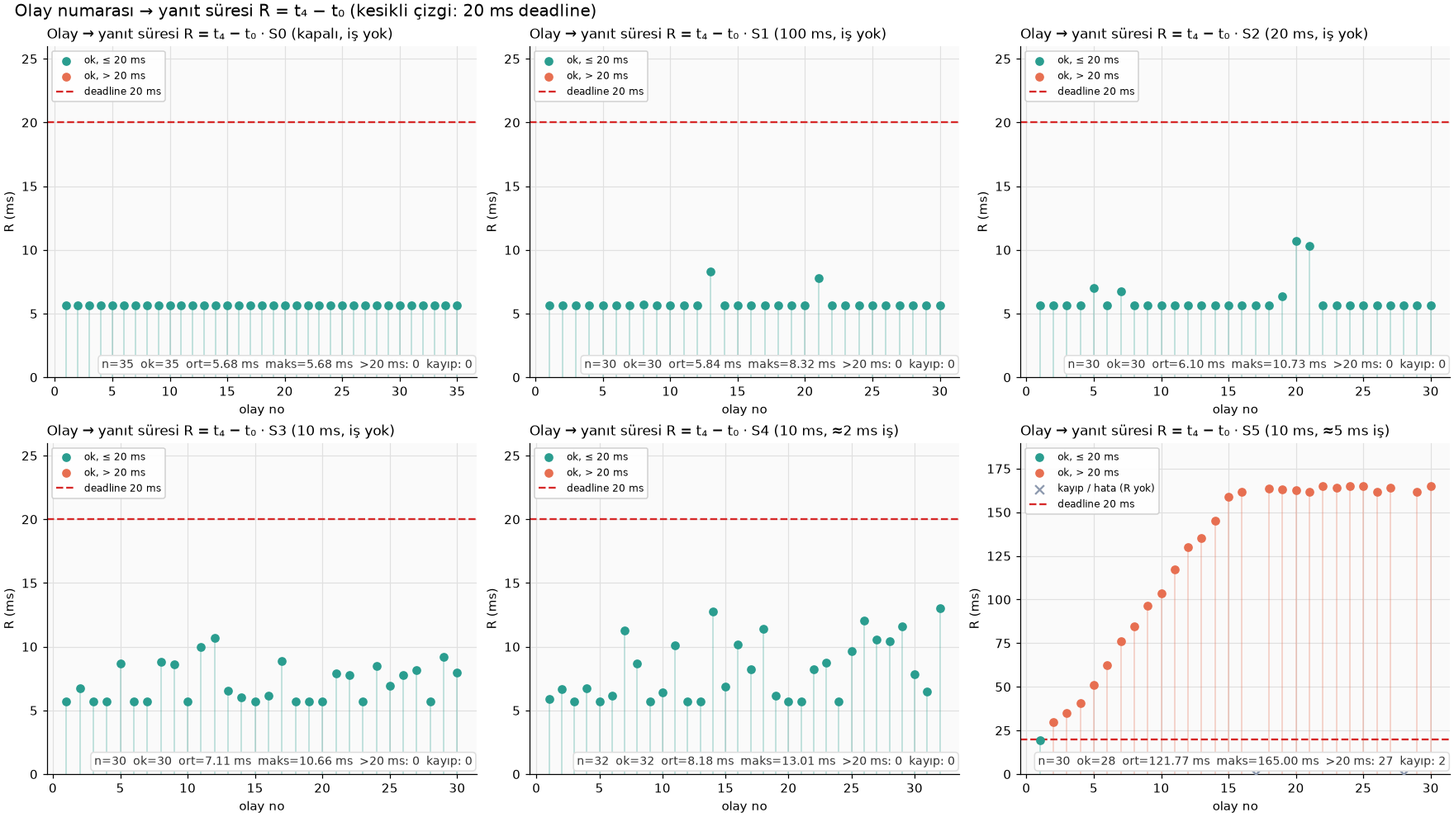
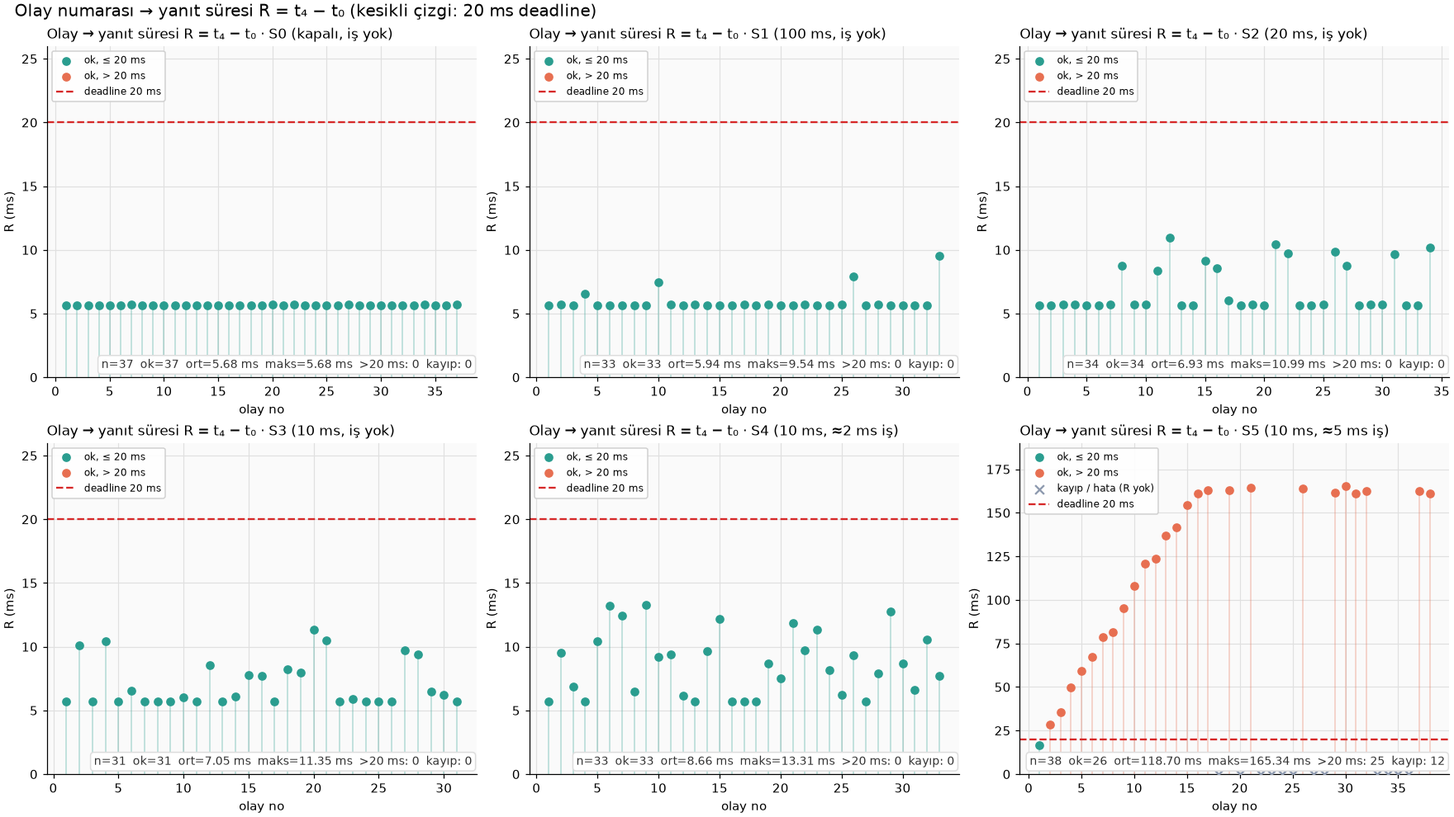
Adım 8 (v2): analiz ve rapor olcum-v2 verisiyle güncellendi
Kuyruk HWM ve gerçek telemetri hızı tablosu, basış aralığı kontrolü,
duvar saati / CPU süresi ayrımı, t3-t2'nin kapsamı, ek CPU talebi hesabı
ve DMA önerisinin düzeltilmesi eklendi. Bütün sayılar betik çıktısından.

diff --git a/hafta-01/analysis/analyze.py b/hafta-01/analysis/analyze.py
@@ -37,6 +37,7 @@ SCN_DESC = {
     "S5": "10 ms, ≈5 ms iş",
 }
 DEADLINE_US = 20_000
+MIN_PRESS_GAP_S = 0.5
 
 
 def p95(values: list) -> float:
@@ -86,6 +87,9 @@ def analyse() -> tuple:
 
         R = [r.r_us for r in good]
         stages = [[r.stage_us(i) for r in good] for i in range(4)]
+        # Press spacing from the board's own t0 stamps (procedure: >= 0.5 s)
+        t0s = [r.t[0] for r in rows if r.t[0] is not None]
+        gaps = [((b - a) & 0xFFFFFFFF) / 1e6 for a, b in zip(t0s, t0s[1:])]
         status = {s: sum(r.status == s for r in rows)
                   for s in ("btn_drop", "tx_drop", "tx_error", "timeout")}
         summary.append({
@@ -116,6 +120,9 @@ def analyse() -> tuple:
             "tel_period_max_us": cnt.get("tel_period_max_us", ""),
             "work_min_us": cnt.get("work_min_us", ""),
             "work_max_us": cnt.get("work_max_us", ""),
+            "press_gap_min_s": round(min(gaps), 3) if gaps else "",
+            "press_gap_median_s": round(median(gaps), 3) if gaps else "",
+            "press_gap_under_0_5s": sum(g < MIN_PRESS_GAP_S for g in gaps),
             "tel_rate_hz": tel_rate(cnt),
             "txq_hwm": cnt.get("txq_hwm", ""),
             "txq_hwm_tel": cnt.get("txq_hwm_tel", ""),
@@ -226,6 +233,12 @@ def write_tables(summary: list, excluded: list) -> None:
         btq = s["btnq_hwm"] or "ölçülmedi"
         lines.append(f"| {s['scenario']} | {rate} | {per} | {work} | {txq} | {btq} | "
                      f"{s['tx_drop_tel']} | {s['bounce_rejected']} |")
+    lines += ["", "## Prosedür kontrolü (basış aralıkları, kartın t₀ damgalarından)", "",
+              "| Senaryo | Kabul edilen olay | Basış aralığı min (s) | medyan (s) | 0,5 s'den kısa |",
+              "|---|---|---|---|---|"]
+    for s in summary:
+        lines.append(f"| {s['scenario']} | {s['accepted']} | {str(s['press_gap_min_s']).replace('.', ',')} | "
+                     f"{str(s['press_gap_median_s']).replace('.', ',')} | {s['press_gap_under_0_5s']} |")
     lines += ["", "## Ek gözlemler", ""] + extra_observations() + ["", "## Dışlanan kayıtlar", ""]
     if excluded:
         lines += ["Zaman istatistiklerinden dışlandı; özet tablodaki olay sayılarında ve kayıp sütunlarında yer alır.", "",

diff --git a/hafta-01/analysis/report.md b/hafta-01/analysis/report.md
@@ -5,10 +5,12 @@
 ## 1. Deney Koşulları
 
 - Kart, MCU saati, tick hızı, timer ve derleme ayarları: bkz. [README](../README.md#1-donanım-bağlantılar-ve-araç-sürümleri)
-- Ölçülen firmware: `olcum-v1` tag'i (`9124f34`). NUCLEO-L476RG, 80 MHz, FreeRTOS 10.3.1, Debug `-O0`
+- Ölçülen firmware: `olcum-v2` tag'i (`5baf768`). NUCLEO-L476RG, 80 MHz, FreeRTOS 10.3.1, Debug `-O0`. v2, v1'e TX ve buton kuyruklarının high-water mark sayaçlarını ekler. v1 ölçümleri [measurements/olcum-v1/](../measurements/olcum-v1/) altında arşivlidir ve bu raporda kullanılmamıştır.
 - Teslim commit'i: _TBD_
 - Ölçüm tarihi: 2026-09-29
-- Prosedür: her senaryoda `SCN,Sx` → 5 s ısınma → en az 30 basış (en az 0,5 s aralıklı, düzensiz) → `STOP` → `DUMP`. CSV'ler PC arayüzü tarafından DUMP çıktısından olduğu gibi kaydedildi.
+- Prosedür: her senaryoda `SCN,Sx` → 5 s ısınma → en az 30 basış (en az 0,5 s aralıklı, düzensiz) → `STOP` → `DUMP`. CSV'ler PC arayüzü tarafından DUMP çıktısından olduğu gibi kaydedildi. Basış aralıkları kartın t₀ damgalarından kontrol edildi: en kısa aralık 0,501 s (S1), 0,5 s'nin altında kalan basış yok. S2'nin ilk ölçümünde 4 basış 0,45 s'ye indiği için senaryo tekrarlandı.
+- Ek CPU talebi (şartnamedeki yaklaşık hesap, U ≈ C × f): S4'te 100 Hz × 2 ms ≈ %20, S5'te 100 Hz × 5 ms ≈ %50. Bu hesaplanmış bir taleptir, ölçülmüş toplam CPU kullanımı değildir. Ölçülen iş süreleri S4'te 2002–2063 µs, S5'te 5002–5088 µs.
+- UART hattı yalnızca telemetri için %5,6 (S1), %27,8 (S2) ve %55,6 (S3–S5) dolu (64 bayt × 10 bit × f / 115200). BTN mesajları buna eklenir.
 
 ## 2. Özet Tablo
 
@@ -16,14 +18,25 @@ Birim: ms. Kaynak: [measurements/summary.csv](../measurements/summary.csv). R is
 
 | Senaryo | Kabul edilen olay | Başarılı (ok) | R min | R ort | R medyan | R p95 | R maks (gözlenen) | > 20 ms | drop | tx_error | timeout | Kayıt kaybı |
 |---|---|---|---|---|---|---|---|---|---|---|---|---|
-| S0 | 35 | 35 | 5,675 | 5,676 | 5,676 | 5,679 | 5,680 | 0 | 0 | 0 | 0 | 0 |
-| S1 | 30 | 30 | 5,675 | 5,837 | 5,676 | 7,783 | 8,325 | 0 | 0 | 0 | 0 | 0 |
-| S2 | 30 | 30 | 5,675 | 6,102 | 5,676 | 10,333 | 10,730 | 0 | 0 | 0 | 0 | 0 |
-| S3 | 30 | 30 | 5,675 | 7,114 | 6,639 | 9,958 | 10,662 | 0 | 0 | 0 | 0 | 0 |
-| S4 | 32 | 32 | 5,675 | 8,178 | 7,350 | 12,773 | 13,011 | 0 | 0 | 0 | 0 | 0 |
-| S5 | 30 | 28 | 19,240 | 121,767 | 151,999 | 164,969 | 164,997 | 27 | 2 | 0 | 0 | 0 |
+| S0 | 37 | 37 | 5,678 | 5,679 | 5,679 | 5,683 | 5,683 | 0 | 0 | 0 | 0 | 0 |
+| S1 | 33 | 33 | 5,678 | 5,944 | 5,679 | 7,891 | 9,540 | 0 | 0 | 0 | 0 | 0 |
+| S2 | 34 | 34 | 5,678 | 6,927 | 5,682 | 10,410 | 10,990 | 0 | 0 | 0 | 0 | 0 |
+| S3 | 31 | 31 | 5,678 | 7,052 | 6,046 | 10,509 | 11,351 | 0 | 0 | 0 | 0 | 0 |
+| S4 | 33 | 33 | 5,678 | 8,657 | 8,672 | 13,235 | 13,310 | 0 | 0 | 0 | 0 | 0 |
+| S5 | 38 | 26 | 16,422 | 118,704 | 139,310 | 164,276 | 165,337 | 25 | 12 | 0 | 0 | 0 |
 
-Dışlanan kayıtlar ve nedenleri: S5 olay 17 ve 28, durum `tx_drop` (TX kuyruğu dolu). Bu iki olayda t₃ ve t₄ alınmadı, bu yüzden R hesaplanamaz. Zaman istatistiklerinden dışlandılar ama kabul edilen olay sayısında ve `drop` sütununda yer alıyorlar. "Deadline karşılandı" olarak sayılmadılar. Aynı senaryoda kart ayrıca 14 TEL mesajını da düşürdü (`tx_drop_tel = 14`).
+Kuyruk yüksek su seviyeleri ve gerçek telemetri hızı:
+
+| Senaryo | Gerçek telemetri hızı (Hz) | Periyot min / maks (µs) | TX kuyruğu HWM (/16) | Buton kuyruğu HWM (/8) | Düşürülen TEL |
+|---|---|---|---|---|---|
+| S0 | kapalı | — | 1 | 1 | 0 |
+| S1 | 10,00 | 100000 / 100000 | 1 | 1 | 0 |
+| S2 | 50,00 | 20000 / 20000 | 1 | 1 | 0 |
+| S3 | 100,00 | 9979 / 10021 | 2 | 1 | 0 |
+| S4 | 100,00 | 9996 / 10004 | 2 | 1 | 0 |
+| S5 | 99,99 | 9998 / 10004 | **16** | 1 | 12 |
+
+Dışlanan kayıtlar ve nedenleri: S5'te 12 olay (18, 20, 22, 23, 24, 25, 27, 28, 33, 34, 35, 36), durum `tx_drop` (TX kuyruğu dolu). Bu olaylarda t₃ ve t₄ alınmadı, bu yüzden R hesaplanamaz. Zaman istatistiklerinden dışlandılar ama kabul edilen olay sayısında ve `drop` sütununda yer alıyorlar. "Deadline karşılandı" olarak sayılmadılar.
 
 ## 3. Aşama Süreleri
 
@@ -31,16 +44,16 @@ Birim: ms, başarılı olayların ortalaması.
 
 | Senaryo | t₁ − t₀ | t₂ − t₁ | t₃ − t₂ | t₄ − t₃ | R |
 |---|---|---|---|---|---|
-| S0 | 0,024 | 0,037 | 0,056 | 5,559 | 5,676 |
-| S1 | 0,025 | 0,037 | 0,215 | 5,559 | 5,837 |
-| S2 | 0,024 | 0,037 | 0,481 | 5,559 | 6,102 |
-| S3 | 0,024 | 0,039 | 1,492 | 5,559 | 7,114 |
-| S4 | 0,167 | 0,038 | 2,414 | 5,559 | 8,178 |
-| S5 | 0,698 | 0,038 | 115,472 | 5,559 | 121,767 |
+| S0 | 0,025 | 0,037 | 0,058 | 5,559 | 5,679 |
+| S1 | 0,025 | 0,038 | 0,322 | 5,559 | 5,944 |
+| S2 | 0,026 | 0,038 | 1,304 | 5,559 | 6,927 |
+| S3 | 0,029 | 0,038 | 1,426 | 5,559 | 7,052 |
+| S4 | 0,277 | 0,038 | 2,783 | 5,559 | 8,657 |
+| S5 | 0,984 | 0,038 | 112,123 | 5,559 | 118,704 |
 
-Gözlenen maksimumlar (ms): t₁ − t₀ S3'te 0,027, S4'te 1,775, S5'te 4,438. t₃ − t₂ S1'de 2,701, S2'de 5,106, S3'te 5,038, S4'te 5,640, S5'te 159,369.
+Gözlenen maksimumlar (ms): t₁ − t₀ S3'te 0,114, S4'te 2,073, S5'te 5,033. t₃ − t₂ S1'de 3,911, S2'de 5,365, S3'te 5,641, S4'te 5,641, S5'te 159,713.
 
-Kart sayaçları: telemetri periyodu bütün senaryolarda hedefin ± 3 µs içinde kaldı. CPU işi S4'te 2002–2064 µs, S5'te 5002–5090 µs sürdü. `bounce_rejected` bütün senaryolarda 0.
+`bounce_rejected` bütün senaryolarda 0 çıktı.
 
 ## 4. Grafikler
 
@@ -58,39 +71,49 @@ Grafik üretme kodu: [analysis/analyze.py](analyze.py). Çizim fonksiyonları PC
 
 ### 5.1 Telemetri frekansının etkisi (S0 → S1 → S2 → S3)
 
-Ölçüme başlamadan önceki beklentimiz, telemetri sıklaştıkça BTN yanıtının TX kuyruğunda TEL mesajlarının arkasında kalacağı ve bu yüzden t₃ − t₂'nin uzayacağıydı. İlk dört senaryo bu beklentiyle örtüştü. Üstelik değişim yalnızca o aşamada kaldı. t₃ − t₂ ortalaması S0'da 0,056 ms iken S1'de 0,215, S2'de 0,481, S3'te 1,492 ms oldu. Aynı sürede t₁ − t₀ 0,024–0,025 ms'de, t₂ − t₁ 0,037–0,039 ms'de, hat süresi t₄ − t₃ ise 5,559 ms'de hiç kıpırdamadı.
+Ölçüme başlamadan önceki beklentimiz, telemetri sıklaştıkça BTN yanıtının TEL mesajlarının arkasında kalacağı ve bu yüzden t₃ − t₂'nin uzayacağıydı. İlk dört senaryo bu beklentiyle örtüştü ve değişim neredeyse yalnızca o aşamada kaldı. t₃ − t₂ ortalaması S0'da 0,058 ms iken S1'de 0,322, S2'de 1,304, S3'te 1,426 ms oldu. Aynı sürede t₂ − t₁ 0,037–0,038 ms'de, hat süresi t₄ − t₃ ise 5,559 ms'de hiç kıpırdamadı.
 
-Bu bekleme her basışta ortaya çıkmıyor. Butona basıldığı anda hatta bir TEL mesajı varsa BTN onun bitmesini bekliyor, yoksa hiç beklemiyor. Bu yüzden t₃ − t₂'nin 1 ms'yi aştığı olay sayısı, hattın ne kadar dolu olduğuyla birlikte arttı: S1'de 2/30, S2'de 4/30, S3'te 15/30. Hat doluluğu ise sırasıyla %5,6, %27,8 ve %55,6. S1 ve S3'teki oranlar bu basit modele oldukça yakın. S2'de beklenenden az bekleme gördük; 30 basışla bunun rastlantı mı yoksa gerçek bir etki mi olduğunu söyleyemiyoruz. Tek bir beklemenin üst sınırı da bir mesaj süresi (≈ 5,6 ms). Gözlenen en uzun beklemeler (2,701 / 5,106 / 5,038 ms) bu sınırın altında kaldı.
+t₃ − t₂'yi yalnızca "kuyrukta bekleme" diye okumak eksik olur. Bu aralık t₂'den, yani `xQueueSend` çağrısından **önce** başlıyor. Kuyruk API'sinin kendi süresini, UartTxTask'a geçişi (scheduling), mesajın tampona kopyalanmasını ve UART'ın başlatılmasını da içeriyor. S0'daki 0,058 ms bu sabit maliyet. Telemetrinin eklediği asıl kısım, BTN'nin o sırada hatta olan TEL mesajının bitmesini beklemesi. Bu bekleme her basışta olmuyor: basış anında hat boşsa hiç beklenmiyor. t₃ − t₂'nin 1 ms'yi aştığı olay sayısı S1'de 3/33, S2'de 11/34, S3'te 11/31. Hat doluluğu ise %5,6, %27,8 ve %55,6. S1 ve S2'deki oranlar hat doluluğuna yakın, S3'te beklenenden az bekleme gördük. 31 basışla bunun rastlantı mı yoksa gerçek bir etki mi olduğunu söyleyemiyoruz. Tek bir beklemenin üst sınırı bir mesaj süresi (≈ 5,6 ms). Gözlenen en uzun beklemeler (3,911 / 5,365 / 5,641 ms) bu sınırın altında kaldı. Kuyruk sayaçları da aynı tabloyu doğruluyor: S0–S2'de TX kuyruğunda aynı anda en fazla 1 mesaj, S3'te en fazla 2 mesaj bulundu.
 
-Sonuç olarak telemetri tek başına sistemi deadline'a yaklaştırmadı. S0–S3'teki en kötü gözlem 10,730 ms (S2) oldu ve bütün olaylar 20 ms'nin altında kaldı.
+S3'te küçük bir yan etki de gördük: CPU işi olmadığı halde t₁ − t₀ maksimumu 0,114 ms'ye çıktı. Buton, TelemetryTask kendi TEL mesajını hazırlarken basılırsa ButtonTask o kısa işin bitmesini bekliyor.
+
+Sonuç olarak telemetri tek başına sistemi deadline'a yaklaştırmadı. S0–S3'teki en kötü gözlem 11,351 ms (S3) oldu ve bütün olaylar 20 ms'nin altında kaldı.
 
 ### 5.2 CPU yükünün etkisi (S3 → S4 → S5)
 
-CPU yükünde beklentimiz farklıydı. TelemetryTask öncelik 3'te 2 ya da 5 ms hesap yaparken ButtonTask'ın (öncelik 2) CPU'yu bekleyeceğini ve bu yüzden asıl t₁ − t₀'ın büyüyeceğini düşünüyorduk. Bu gerçekten oldu, ama beklediğimiz ölçekte kaldı: t₁ − t₀ ortalaması 0,024 → 0,167 → 0,698 ms'ye çıktı ve en kötü değerler (1,775 ve 4,438 ms) iş süresini hiç aşmadı. Basış işin ortasına denk gelirse ButtonTask işin bitmesini bekliyor, denk gelmezse hiç beklemiyor.
+CPU yükünde beklentimiz farklıydı. TelemetryTask öncelik 3'te 2 ya da 5 ms hesap yaparken ButtonTask'ın (öncelik 2) CPU'yu bekleyeceğini ve asıl t₁ − t₀'ın büyüyeceğini düşünüyorduk. Bu gerçekten oldu, ama beklediğimiz ölçekte kaldı: t₁ − t₀ ortalaması 0,029 → 0,277 → 0,984 ms'ye çıktı. En kötü değerler (2,073 ve 5,033 ms), iş süresinin kendisi (en fazla 2,063 ve 5,088 ms) artı ISR ve bağlam geçişinin ≈ 25 µs'si kadar. Basış işin ortasına denk gelirse ButtonTask işin bitmesini bekliyor, denk gelmezse hiç beklemiyor.
 
-Asıl sürpriz yine t₃ − t₂'deydi. S4'te ortalaması 2,414 ms ile S3'ün biraz üstünde kaldı. S5'te ise 115,472 ms'ye fırladı. S5'in grafiği (4.1) diğerlerinden tamamen farklı görünüyor: R ilk basışta 19,2 ms, sonra her basışta yaklaşık 10 ms artıyor ve 15. olaydan sonra ≈ 163 ms'de sabitleniyor. 28 başarılı olayın 27'si deadline'ı kaçırdı. İki BTN yanıtı ise hiç gönderilemedi (`tx_drop`). Kart aynı senaryoda 14 TEL mesajını da düşürdü.
+Asıl sürpriz yine t₃ − t₂'deydi. S4'te ortalaması 2,783 ms ile S3'ün biraz üstünde kaldı ve TX kuyruğu en fazla 2 mesaja ulaştı. S5'te ise t₃ − t₂ 112,123 ms'ye fırladı ve **kuyruk 16 mesajla tamamen doldu.** S5'in grafiği (4.1) diğerlerinden tamamen farklı görünüyor: R ilk basışta 16,4 ms, sonra her basışta yaklaşık 10 ms artıyor ve kuyruk dolduktan sonra ≈ 162 ms'de sabitleniyor (olay ≥ 15 için R ort 161,978 ms). 26 başarılı olayın 25'i deadline'ı kaçırdı. 12 BTN yanıtı ise hiç gönderilemedi (`tx_drop`). Kart aynı senaryoda 12 TEL mesajını da düşürdü.
 
-Bu davranışı ilk olarak kuru denemede gördük ve nedenini ölçümden önce çözmeye çalıştık. S5'te her 10 ms'lik periyodun ilk ≈ 5 ms'sinde TelemetryTask hesap yapıyor. UartTxTask en düşük öncelikte olduğu için, bir mesajın gönderimi bu sırada biterse sıradaki mesaja ancak hesap bittikten sonra başlayabiliyor. Bu arada UART hattı boşta bekliyor. Sonuçta hat periyot başına yalnızca bir mesaj gönderebiliyor. Telemetri de periyot başına tam bir mesaj ürettiği için kuyrukta boşalacak yer kalmıyor ve her BTN mesajı kalıcı bir fazlalık olarak birikiyor. Kuyruk 16 mesaj dolunca (16 × 10 ms ≈ 160 ms) plato oluşuyor ve yeni gelen mesajlar düşürülmeye başlıyor.
+Bu davranışı ilk olarak kuru denemede gördük ve nedenini ölçümden önce çözmeye çalıştık. S5'te her 10 ms'lik periyodun ilk ≈ 5 ms'sinde TelemetryTask hesap yapıyor. UartTxTask en düşük öncelikte olduğu için, bir mesajın gönderimi bu sırada biterse sıradaki mesaja ancak hesap bittikten sonra başlayabiliyor. Bu arada UART hattı boşta bekliyor. Sonuçta hat periyot başına yalnızca bir mesaj gönderebiliyor. Telemetri de periyot başına tam bir mesaj ürettiği için kuyrukta boşalacak yer kalmıyor ve her BTN mesajı kalıcı bir fazlalık olarak birikiyor. Kuyruk 16 mesaj dolunca (16 × 10 ms ≈ 160 ms) plato oluşuyor ve bundan sonra gelen mesajlar düşürülüyor.
 
-Bu açıklamayı destekleyen en güçlü kanıt t₃'lerin zamanlaması oldu. S5'teki 28 başarılı olayın hepsinde t₃, 10 ms'lik periyodun 7183–7190 µs aralığına düşüyor. Yani UART gönderimi her seferinde periyodun aynı 7 µs'lik diliminde başlıyor: hesabın bittiği anda. Aynı bant S3'te 4740–8361 µs, S4'te 6743–8820 µs genişliğindeydi. Yük arttıkça UartTxTask'ın çalışabildiği zaman aralığı gözle görülür şekilde daralıyor.
+Bu açıklamayı destekleyen iki doğrudan kanıt var. Birincisi kuyruk sayacı: S5'te TX kuyruğunun doluluğu 16/16'ya ulaştı, diğer bütün senaryolarda 2'yi geçmedi. İkincisi t₃'lerin zamanlaması: S5'teki 26 başarılı olayın hepsinde t₃, 10 ms'lik periyodun aynı 6 µs'lik dilimine düşüyor (TIM2 sayacına göre 185–191 µs; bandın konumu timer ile tick arasındaki keyfi faz farkına bağlı, önemli olan genişliği). Yani UART gönderimi her seferinde hesabın bittiği anda başlıyor. Aynı bant S3'te periyodun neredeyse tamamına yayılıyordu (238–9829 µs), S4'te ≈ 2,2 ms'ye (7744–9980 µs) daraldı. Yük arttıkça UartTxTask'ın çalışabildiği zaman aralığı gözle görülür şekilde daralıyor.
 
 ## 6. Değerlendirme
 
-Bu ölçümden çıkardığımız en önemli sonuç, gecikmenin beklediğimiz yerde değil, bir aşama sonra birikmesiydi. CPU yükü eklediğimizde t₁ − t₀'ın büyümesini bekliyorduk ve büyüdü. Ama bu artış en fazla birkaç milisaniyede kaldı. Sistemi deadline'ın çok ötesine taşıyan şey, yanıtın TX kuyruğunda beklediği t₃ − t₂ oldu. t₂ − t₁ ve hat süresi t₄ − t₃ ise hiçbir senaryoda değişmedi. Bu da yanıt hazırlamanın ve fiziksel iletimin sorun olmadığını gösteriyor.
+Bu ölçümden çıkardığımız en önemli sonuç, gecikmenin beklediğimiz yerde değil, bir aşama sonra birikmesiydi. CPU yükü eklediğimizde t₁ − t₀'ın büyümesini bekliyorduk ve büyüdü. Ama bu artış iş süresiyle sınırlı kaldı, en fazla ≈ 5 ms. Sistemi deadline'ın çok ötesine taşıyan şey, yanıtın TX kuyruğunda ve UART'a erişimde geçen t₃ − t₂ oldu. t₂ − t₁ ve hat süresi t₄ − t₃ hiçbir senaryoda değişmedi. Bu da yanıt hazırlamanın ve fiziksel iletimin sorun olmadığını gösteriyor. Buton tarafında da bir kayıp yaşanmadı: buton kuyruğu hiçbir senaryoda 1'in üstüne çıkmadı ve bütün basışlar kaydedildi. S5'teki kayıplar basışların değil, onlara verilen yanıtların kaybı.
 
 Bunun iki nedeni var ve ikisi birlikte etkili oluyor. Birincisi, BTN yanıtı ile TEL mesajları aynı FIFO kuyrukta, aralarında hiçbir öncelik farkı olmadan sıraya giriyor. Butona basan kullanıcının yanıtı, kuyrukta onun önünde bekleyen telemetri kadar gecikiyor. İkincisi, UART'ın tek sahibi en düşük öncelikli görev. Hattın kapasitesi aslında yeterliydi: S5'te bile doluluk %55,6 idi. Ama UartTxTask CPU'yu alamadığı sürece hat boş bekliyor. Kısacası darboğaz UART'ın kendisi değil, UART'ı süren görevin önceliği.
 
-Bu yorumu dört ölçüme dayandırıyoruz: bölüm 3'teki aşama tablosu, S5'te t₃'lerin 7 µs'lik tek bir faz bandında toplanması, S5 platosunun kuyruk uzunluğu × periyot hesabıyla (≈ 160 ms) örtüşmesi ve kartın düşürülen mesajları sayan sayaçları (`tx_drop_tel = 14`, `tx_drop_btn = 2`).
+Bu yorumu dört ölçüme dayandırıyoruz: bölüm 3'teki aşama tablosu, S5'te TX kuyruğunun 16/16 dolması (diğer senaryolarda en fazla 2), S5'te t₃'lerin 6 µs'lik tek bir faz bandında toplanması ve S5 platosunun kuyruk uzunluğu × periyot hesabıyla (≈ 160 ms) örtüşmesi.
 
-Bilmediğimiz şeyler de var. En başta, olası düzeltmelerin hiçbirini denemedik. UartTxTask'ın önceliğini yükseltmek, BTN yanıtları için ayrı ya da öncelikli bir kuyruk kullanmak, UART'ı DMA ile sürmek ya da kuyruk dolmaya başladığında TEL mesajlarını atlamak bu sorunu büyük ihtimalle çözer. Ama hangisinin ne kadar iyileştireceğini ancak yeni bir ölçüm gösterebilir. Ayrıca S5'teki ortalama ve medyan, senaryonun sabit bir özelliği değil: sistem doyuma ulaştıktan sonra R, kaç kez basıldığına bağlı. 60 basış yapsaydık ortalama farklı çıkardı. Bu yüzden S5 için ortalamadan çok platoyu anlamlı buluyoruz. Son olarak ölçümler Debug (`-O0`) derlemesiyle alındı. Optimizasyonlu bir derlemede yazılım aşamaları kısalır, ama S5'teki birikim mekanizmasının değişmeyeceğini düşünüyoruz, çünkü o mekanizma kodun hızından değil görev önceliklerinden kaynaklanıyor.
+Bilmediğimiz şeyler de var. En başta, olası düzeltmelerin hiçbirini denemedik. Görev önceliklerinin şartnamede sabit olması nedeniyle bunlar ancak öneri olarak kalıyor:
+- UartTxTask'ın önceliğini yükseltmek, TC gelir gelmez sıradaki gönderimin başlamasını sağlar ve hat boşta beklemez. Birikimin büyük ölçüde erimesini bekliyoruz.
+- BTN yanıtları için öncelikli bir kuyruk ya da `xQueueSendToFront`, yanıtı telemetrinin önüne geçirir. Ama telemetri birikimini çözmez ve FIFO şartıyla çelişir.
+- DMA tek başına çözüm değil. Her mesajı yine UartTxTask başlatıyorsa aynı bekleme yaşanır. DMA ancak bir sonraki aktarım TC kesmesinin içinden zincirlenirse ya da birikmiş mesajlar tek aktarımda gönderilirse işe yarar, çünkü o zaman gönderim görev önceliğine bağlı olmaktan çıkar.
+- Kuyruk dolmaya başladığında TEL mesajlarını bilinçli olarak atlamak, BTN kaybını önler ama telemetri kaybını kabul eder.
+
+Hangisinin ne kadar iyileştireceğini ancak yeni bir ölçüm gösterebilir. Ayrıca S5'teki ortalama ve medyan, senaryonun sabit bir özelliği değil: sistem doyuma ulaştıktan sonra R, kaç kez basıldığına bağlı. Daha uzun bir ölçüm farklı bir ortalama verirdi. Bu yüzden S5 için ortalamadan çok platoyu ve kayıp oranını anlamlı buluyoruz. Son olarak ölçümler Debug (`-O0`) derlemesiyle alındı. Optimizasyonlu bir derlemede yazılım aşamaları kısalır, ama S5'teki birikim mekanizmasının değişmeyeceğini düşünüyoruz, çünkü o mekanizma kodun hızından değil görev önceliklerinden kaynaklanıyor.
 
 ## 7. Ölçümün Sınırları
 
-- Gözlenen maksimum, kanıtlanmış worst-case değildir. Her senaryoda 30–35 olay ölçüldü.
+- Gözlenen maksimum, kanıtlanmış worst-case değildir. Her senaryoda 31–38 olay ölçüldü.
 - t₀, fiziksel basış anı değil, filtrenin kabul ettiği kenarın ISR giriş zamanıdır. Buton hattındaki donanım gecikmesi (varsa RC filtre) t₀'dan önce kalır ve R'ye dahil değildir.
-- t₃, ilk fiziksel bitin çıktığı an değildir. t₄ kesme gözlem gecikmesini içerir. t₄ − t₃ ile teorik hat süresi (5,556 ms) arasındaki ≈ 3–4 µs fark bu ek süreleri gösterir.
+- t₃, ilk fiziksel bitin çıktığı an değildir. t₄ kesme gözlem gecikmesini içerir. t₄ − t₃ ile teorik hat süresi (5,556 ms) arasındaki ≈ 3 µs fark bu ek süreleri gösterir.
+- **Bütün aralıklar duvar saati (wall-clock) süreleridir, CPU süresi değildir.** Örneğin t₂ − t₁'in 0,038 ms çıkması, ButtonTask'ın 38 µs CPU kullandığı anlamına gelmez. Arada gelen kesmeler (TC, tick) ve yüksek öncelikli görevlerin çalışma süresi de bu aralığa eklenir. Aynı şey CPU işinin kalibrasyonu ve ölçülen iş süresi için de geçerlidir: 5002–5088 µs'lik fark, iş sırasında gelen kesmelerin süresini içerir. Kalibrasyonda bu etkiyi azaltmak için 5 ölçümün en kısası alındı.
 - Kayıp yanıtlar "deadline karşılandı" olarak sayılmamıştır.
+- Kuyruk high-water mark değerleri üretici tarafında, her gönderimden hemen sonra okundu. Başarısız gönderim, kuyruğun o anda dolu (16) olduğunu gösterir.
 - Firmware Debug (`-O0`) yapılandırmasıyla derlendi. Yazılım aşamalarının mutlak süreleri optimizasyonlu derlemede farklı olur.
 - S5 ortalamaları doyum rejiminde basış sayısına bağlıdır (bkz. bölüm 6).
-- Basış aralıkları elle üretildi. Aralıkların düzensizliği ölçülmedi, yalnızca PC arayüzü 0,5 s altı basışlarda uyarı verdi.
+- Basış aralıkları elle üretildi. En kısa aralık kartın t₀ damgalarından kontrol edildi (≥ 0,501 s), ama aralıkların "düzensizliği" nicel olarak ölçülmedi.
 - `bounce_rejected = 0`: test edilen basışlarda filtreye takılan kenar gözlenmedi. Bu, kartın buton devresi hakkında bir iddia değildir.

diff --git a/hafta-01/analysis/tables.md b/hafta-01/analysis/tables.md
@@ -1,0 +1,78 @@
+# Betik çıktısı: rapor tabloları
+
+Bu dosya `analysis/analyze.py` tarafından üretilir; elle düzenlenmez.
+
+## Özet tablo (ms)
+
+| Senaryo | Kabul edilen olay | Başarılı (ok) | R min | R ort | R medyan | R p95 | R maks (gözlenen) | > 20 ms | drop | tx_error | timeout | Kayıt kaybı |
+|---|---|---|---|---|---|---|---|---|---|---|---|---|
+| S0 | 37 | 37 | 5,678 | 5,679 | 5,679 | 5,683 | 5,683 | 0 | 0 | 0 | 0 | 0 |
+| S1 | 33 | 33 | 5,678 | 5,944 | 5,679 | 7,891 | 9,540 | 0 | 0 | 0 | 0 | 0 |
+| S2 | 34 | 34 | 5,678 | 6,927 | 5,682 | 10,410 | 10,990 | 0 | 0 | 0 | 0 | 0 |
+| S3 | 31 | 31 | 5,678 | 7,052 | 6,046 | 10,509 | 11,351 | 0 | 0 | 0 | 0 | 0 |
+| S4 | 33 | 33 | 5,678 | 8,657 | 8,672 | 13,235 | 13,310 | 0 | 0 | 0 | 0 | 0 |
+| S5 | 38 | 26 | 16,422 | 118,704 | 139,310 | 164,276 | 165,337 | 25 | 12 | 0 | 0 | 0 |
+
+## Aşama süreleri (ms, başarılı olayların ortalaması)
+
+| Senaryo | t₁ − t₀ | t₂ − t₁ | t₃ − t₂ | t₄ − t₃ | R |
+|---|---|---|---|---|---|
+| S0 | 0,025 | 0,037 | 0,058 | 5,559 | 5,679 |
+| S1 | 0,025 | 0,038 | 0,322 | 5,559 | 5,944 |
+| S2 | 0,026 | 0,038 | 1,304 | 5,559 | 6,927 |
+| S3 | 0,029 | 0,038 | 1,426 | 5,559 | 7,052 |
+| S4 | 0,277 | 0,038 | 2,783 | 5,559 | 8,657 |
+| S5 | 0,984 | 0,038 | 112,123 | 5,559 | 118,704 |
+
+## Kart sayaçları
+
+| Senaryo | Gerçek telemetri hızı (Hz) | periyot min/maks (µs) | CPU işi min/maks (µs) | TX kuyruğu HWM (/16) | Buton kuyruğu HWM (/8) | tx_drop_tel | bounce_rejected |
+|---|---|---|---|---|---|---|---|
+| S0 | kapalı | — | — | 1 | 1 | 0 | 0 |
+| S1 | 10,00 | 100000 / 100000 | — | 1 | 1 | 0 | 0 |
+| S2 | 50,00 | 20000 / 20000 | — | 1 | 1 | 0 | 0 |
+| S3 | 100,00 | 9979 / 10021 | — | 2 | 1 | 0 | 0 |
+| S4 | 100,00 | 9996 / 10004 | 2002 / 2063 | 2 | 1 | 0 | 0 |
+| S5 | 99,99 | 9998 / 10004 | 5002 / 5088 | 16 | 1 | 12 | 0 |
+
+## Prosedür kontrolü (basış aralıkları, kartın t₀ damgalarından)
+
+| Senaryo | Kabul edilen olay | Basış aralığı min (s) | medyan (s) | 0,5 s'den kısa |
+|---|---|---|---|---|
+| S0 | 37 | 0,581 | 0,779 | 0 |
+| S1 | 33 | 0,501 | 0,751 | 0 |
+| S2 | 34 | 0,697 | 0,827 | 0 |
+| S3 | 31 | 0,677 | 0,741 | 0 |
+| S4 | 33 | 0,527 | 0,605 | 0 |
+| S5 | 38 | 0,544 | 0,747 | 0 |
+
+## Ek gözlemler
+
+| Senaryo | Hat doluluğu (%) | t₃ − t₂ > 1 ms olan olay | t₃ faz bandı (t₃ mod periyot, µs) |
+|---|---|---|---|
+| S1 | 5.6 | 3 / 33 | 6853–98480 |
+| S2 | 27.8 | 11 / 34 | 382–19637 |
+| S3 | 55.6 | 11 / 31 | 238–9829 |
+| S4 | 55.6 | 23 / 33 | 7744–9980 |
+| S5 | 55.6 | 26 / 26 | 185–191 |
+
+S5 plato: olay ≥ 15 için R ort = 161,978 ms (n = 12). Kuyruk uzunluğu × periyot = 16 × 10 ms = 160 ms.
+
+## Dışlanan kayıtlar
+
+Zaman istatistiklerinden dışlandı; özet tablodaki olay sayılarında ve kayıp sütunlarında yer alır.
+
+| Senaryo | Olay | Durum | Neden |
+|---|---|---|---|
+| S5 | 18 | tx_drop | eksik: t3,t4 |
+| S5 | 20 | tx_drop | eksik: t3,t4 |
+| S5 | 22 | tx_drop | eksik: t3,t4 |
+| S5 | 23 | tx_drop | eksik: t3,t4 |
+| S5 | 24 | tx_drop | eksik: t3,t4 |
+| S5 | 25 | tx_drop | eksik: t3,t4 |
+| S5 | 27 | tx_drop | eksik: t3,t4 |
+| S5 | 28 | tx_drop | eksik: t3,t4 |
+| S5 | 33 | tx_drop | eksik: t3,t4 |
+| S5 | 34 | tx_drop | eksik: t3,t4 |
+| S5 | 35 | tx_drop | eksik: t3,t4 |
+| S5 | 36 | tx_drop | eksik: t3,t4 |
